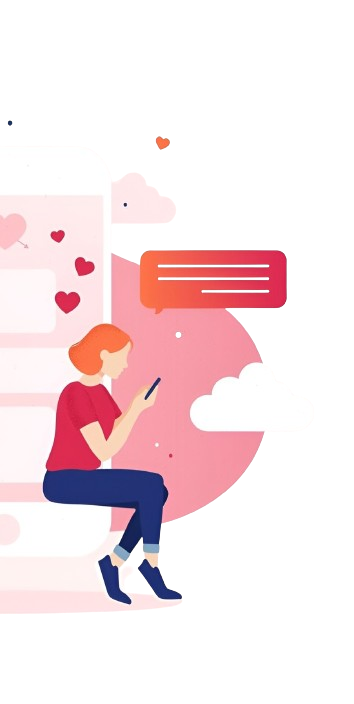
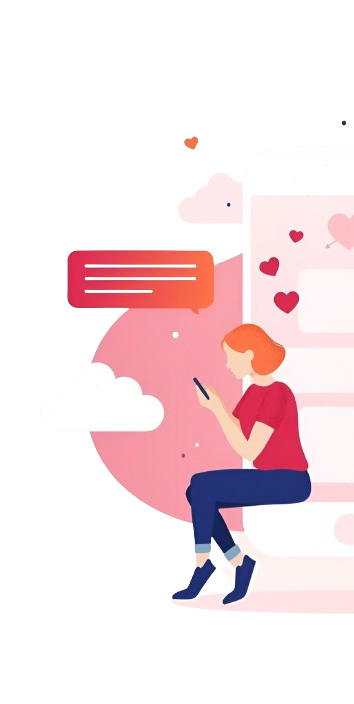
Second card time sensitive img done

diff --git a/app.js b/app.js
@@ -9,7 +9,6 @@ const getOpenWeatherData = async (latitude, longitude) => {
             throw new Error(`HTTP error! status: ${response.status}`);
         }
         const data = await response.json();
-        console.log(data);
 
         return {
             temp: data.main.temp,
@@ -90,7 +89,7 @@ const createPersonWeatherObjects = async (person) => {
 function updateCardOne(personWeather) {
     document.getElementById('city-name-1').innerText = personWeather.city;
     document.getElementById('country-name-1').innerText = personWeather.country;
-    document.getElementById('current-time-1').innerText = personWeather.weather.time; // Updated to use correct variable
+    document.getElementById('current-time-1').innerText = personWeather.weather.time;
 
     document.getElementById('temperature-1').innerHTML = `<span>${Math.round(personWeather.weather.currentTemp)}</span><span class="degree">&#176</span>`;
     document.getElementById('feels-like-1').innerHTML = `Feels like <span id="feels-like-temp-1"> ${Math.round(personWeather.weather.feelsLike)}&#176</span>`;
@@ -112,6 +111,9 @@ function updateCardTwo(personWeather) {
     document.getElementById('feels-like-2').innerHTML = `Feels like: <span id="feels-like-temp-2">${Math.round(personWeather.weather.feelsLike)}&#176;</span>`;
     document.getElementById('temp-min-2').innerHTML = `Min: ${Math.round(personWeather.weather.minTemperature)}&#176;`;
     document.getElementById('temp-max-2').innerHTML = `Max: ${Math.round(personWeather.weather.maxTemperature)}&#176;`;
+    
+
+    updateWeatherImage(personWeather);
 }
 
 // Example usage in the main function
@@ -165,32 +167,31 @@ fetchWeatherForBothPersons();
 
 // Function to find the current time in GMT based on the provided timezone offset
 const getCurrentTimeInByTimezone = (timezoneOffset) => {
-
     const nowUTC = new Date();
-
-    // Convert the timezone offset from seconds to milliseconds
     const offsetInMilliseconds = timezoneOffset * 1000;
-
-    // Calculate the GMT time based on the offset
     const gmtTime = new Date(nowUTC.getTime() + offsetInMilliseconds);
 
-    // Format the hours and minutes
-    let hours = gmtTime.getUTCHours(); // Use getUTCHours for GMT
-    const minutes = gmtTime.getUTCMinutes(); // Use getUTCMinutes for GMT
+    let hours = gmtTime.getUTCHours();
+    const minutes = gmtTime.getUTCMinutes();
     
-    // Determine AM/PM
     const ampm = hours >= 12 ? ' pm' : ' am';
-    hours = hours % 12; // Convert to 12-hour format
-    hours = hours ? hours : 12; // The hour '0' should be '12'
-
-    // Format minutes to always have two digits
+    hours = hours % 12;
+    hours = hours ? hours : 12;
     const formattedMinutes = minutes < 10 ? '0' + minutes : minutes;
 
-    // Return the formatted time
     return `${hours}:${formattedMinutes}${ampm}`;
 };
 
-// Example usage
-const timezoneOffset = 19800; // Example timezone offset in seconds (UTC+5:30)
-const currentGMTTime = getCurrentTimeInByTimezone(timezoneOffset);
-console.log(`Current GMT time: ${currentGMTTime}`);
+const updateWeatherImage = (personWeather) => {
+    const weatherImage = document.getElementById('card-person'); // Make sure to use the correct ID for the image
+    const now = new Date();
+    const hours = now.getUTCHours(); // Get UTC hours
+    const isDayTime = hours >= 6 && hours < 18; // Daytime from 6 AM to 6 PM
+
+    if (personWeather.gender === 'male') {
+        weatherImage.src = isDayTime ? 'weather-img/b-day.png' : 'weather-img/b-night.png'; // Update to day/night image
+    } else {
+        // You can add different conditions for female or other genders if needed
+        weatherImage.src = isDayTime ? 'weather-img/g-day.png' : 'weather-img/g-night.png'; // Update to day/night image for female
+    }
+};

diff --git a/app.css b/app.css
@@ -538,7 +538,7 @@ body::before {
   .card-person {
     height: 80%;
     width: 100%;
-    height: 220px;
+    min-height: 240px;
    
   }
 
@@ -546,7 +546,8 @@ body::before {
     height: 260px;
     position: absolute;
     bottom: -20px;
-    right: -20px;
+    right: 0;
+    opacity: 0.8;
   }
 
   .card-top-right{  

diff --git a/app.html b/app.html
@@ -98,7 +98,7 @@
                 </div>
             </div>
             <div class="card-person">
-                <img src="/weather-img/b-night.png">
+                <img id="card-person" src="weather-img/b-night.png">
             </div>
         </div>
     </div>
